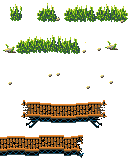
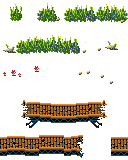
shrooms

diff --git a/lib/game/levels/e1m1.js b/lib/game/levels/e1m1.js
@@ -1,6 +1,6 @@
 ig.module( 'game.levels.e1m1' )
 .requires( 'impact.image','game.entities.nextlevel' )
 .defines(function(){
-LevelE1m1=/*JSON[*/{"entities":[{"type":"EntityNextlevel","x":1531,"y":70}],"layer":[{"name":"BG","width":1,"height":1,"linkWithCollision":false,"visible":1,"tilesetName":"media/gfx/levels/sky.png","repeat":true,"preRender":true,"distance":"1","tilesize":32,"foreground":false,"data":[[15]]},{"name":"skybox","width":12,"height":14,"linkWithCollision":false,"visible":1,"tilesetName":"media/gfx/levels/sky.png","repeat":true,"preRender":true,"distance":"1.8","tilesize":32,"foreground":false,"data":[[1,1,1,1,1,1,1,1,1,1,1,1],[5,6,5,5,6,6,5,5,5,6,6,6],[0,0,0,0,0,0,0,0,0,0,0,0],[0,0,0,0,0,0,0,0,0,0,0,0],[0,0,0,0,0,0,0,0,0,0,0,0],[9,10,9,10,9,9,10,9,10,9,9,10],[13,13,13,13,13,13,13,13,13,13,13,13],[13,13,13,13,13,13,13,13,13,13,13,13],[13,13,13,13,13,13,13,13,13,13,13,13],[13,13,13,13,13,13,13,13,13,13,13,13],[1,1,1,1,1,1,1,1,1,1,1,1],[1,1,1,1,1,1,1,1,1,1,1,1],[1,1,1,1,1,1,1,1,1,1,1,1],[1,1,1,1,1,1,1,1,1,1,1,1]]},{"name":"forest_far_away","width":45,"height":10,"linkWithCollision":false,"visible":1,"tilesetName":"media/gfx/levels/forest.png","repeat":false,"preRender":true,"distance":"1.4","tilesize":32,"foreground":false,"data":[[0,0,0,0,0,0,0,0,0,0,0,0,0,0,0,0,0,0,0,0,0,0,0,0,0,0,0,0,0,0,0,0,0,0,0,0,0,0,0,0,0,0,0,0,0],[0,0,0,0,0,0,0,0,0,0,0,0,0,0,0,0,0,0,0,0,0,0,0,0,0,0,0,0,0,0,0,0,0,0,0,0,0,0,0,0,0,0,0,0,0],[0,0,0,0,0,0,0,0,0,0,0,0,0,0,0,0,0,0,0,0,0,0,0,11,0,11,0,5,0,0,0,0,0,0,0,0,0,0,0,0,0,0,0,0,0],[0,5,0,0,0,0,0,0,0,0,0,0,0,0,0,0,0,3,0,0,0,3,0,9,0,14,0,15,0,0,0,0,0,0,0,0,0,0,0,0,0,0,11,0,0],[0,9,0,0,5,0,10,0,11,0,0,3,0,0,0,2,0,7,4,0,0,7,0,16,0,9,0,9,0,0,11,0,0,0,0,0,0,0,3,0,10,0,15,0,0],[0,13,0,0,14,0,15,0,14,0,0,7,0,0,0,6,0,7,8,0,0,7,0,14,0,13,0,14,0,0,9,0,10,0,0,0,5,0,7,0,13,0,13,0,0],[0,9,0,0,9,0,16,0,15,0,0,7,0,0,0,6,0,7,8,0,0,7,0,13,0,9,0,13,0,0,15,0,9,0,0,0,15,0,7,0,15,0,14,0,0],[0,13,0,0,13,0,16,0,9,0,0,7,0,0,0,6,0,7,8,0,0,7,0,16,0,16,0,9,0,0,16,0,9,0,0,0,9,0,7,0,9,0,15,0,0],[0,16,0,0,16,0,0,0,0,0,0,7,0,0,0,6,0,7,8,0,0,7,0,16,0,16,0,16,0,0,16,0,16,0,0,0,16,0,7,0,16,0,9,0,0],[0,0,0,0,0,0,0,0,0,0,0,0,0,0,0,0,0,0,0,0,0,0,0,0,0,0,0,0,0,0,0,0,0,0,0,0,16,0,7,0,16,0,15,0,0]]},{"name":"forest_back","width":55,"height":10,"linkWithCollision":false,"visible":1,"tilesetName":"media/gfx/levels/forest.png","repeat":false,"preRender":true,"distance":"1.1","tilesize":32,"foreground":false,"data":[[0,0,0,0,0,0,0,0,0,0,0,0,0,0,0,0,0,0,0,0,0,0,0,0,0,0,0,0,0,0,0,0,0,0,0,0,0,0,0,0,0,0,0,0,0,0,0,0,0,0,0,0,0,0,0],[0,0,0,0,0,0,0,0,0,0,0,0,0,0,0,0,0,0,0,10,0,5,0,0,0,0,4,0,0,0,0,0,0,0,0,0,0,0,0,0,0,0,0,0,0,0,0,0,0,0,0,0,0,0,0],[0,0,0,0,0,0,0,0,0,0,0,0,0,0,11,0,0,0,0,9,0,16,0,10,0,3,8,0,0,0,0,0,0,0,0,0,0,0,0,0,0,0,0,0,0,0,0,0,10,0,0,0,0,0,0],[0,0,11,0,0,0,0,4,0,3,0,0,0,0,14,0,0,0,0,13,0,13,0,14,0,7,8,0,0,0,10,0,11,0,0,0,5,0,0,0,0,0,0,2,0,0,0,0,15,0,0,0,0,0,0],[0,0,9,0,0,0,0,8,0,7,0,0,0,0,15,0,0,0,0,14,0,16,0,13,0,7,8,0,0,0,15,0,14,0,0,0,9,2,10,0,0,0,0,6,0,0,0,0,13,0,0,0,0,0,0],[0,0,9,0,0,1,0,8,0,7,0,0,0,0,9,0,0,0,0,15,0,16,0,13,0,7,8,0,0,0,16,0,13,0,0,0,13,6,14,0,0,0,0,6,0,0,0,0,9,0,0,0,0,0,0],[0,0,13,0,0,8,0,8,0,7,0,0,0,0,13,0,0,0,0,16,0,16,0,0,0,7,8,0,0,0,16,0,16,0,0,0,14,6,15,0,0,0,0,6,0,0,0,0,16,0,0,0,0,0,0],[0,0,13,0,0,8,0,8,0,7,0,0,0,0,16,0,0,0,0,16,0,16,0,0,0,7,8,0,0,0,16,0,16,0,0,0,15,6,16,0,0,0,0,6,0,0,0,0,16,0,0,0,0,0,0],[0,0,0,0,0,0,0,0,0,0,0,0,0,0,16,0,0,0,0,0,0,0,0,0,0,7,8,0,0,0,0,0,0,0,0,0,16,6,16,0,0,0,0,6,0,0,0,0,16,0,0,0,0,0,0],[0,0,0,0,0,0,0,0,0,0,0,0,0,0,16,0,0,0,0,0,0,0,0,0,0,0,8,0,0,0,0,0,0,0,0,0,16,6,16,0,0,0,0,6,0,0,0,0,16,0,0,16,0,0,0]]},{"name":"MAIN_back","width":45,"height":10,"linkWithCollision":false,"visible":1,"tilesetName":"media/gfx/levels/forest.png","repeat":false,"preRender":true,"distance":"1","tilesize":32,"foreground":false,"data":[[0,0,0,0,0,0,0,0,0,0,0,0,0,0,0,0,0,0,0,0,0,0,0,0,0,0,0,0,0,0,0,0,0,0,0,0,0,0,0,0,0,0,0,0,0],[0,0,0,0,0,0,0,0,0,0,0,0,0,0,0,0,0,0,0,0,0,0,0,0,0,0,0,0,0,0,0,0,0,0,0,0,0,0,0,0,0,0,0,0,0],[0,0,0,0,0,0,0,0,0,0,0,0,0,0,0,0,0,0,0,0,0,0,0,0,0,0,0,0,0,0,0,0,0,0,0,0,0,0,0,0,0,0,0,0,0],[0,0,0,0,0,0,0,0,0,0,0,0,0,0,0,0,0,0,0,0,17,19,18,19,20,0,17,20,0,0,0,0,0,0,0,0,0,0,0,0,0,0,0,0,0],[0,0,0,0,0,0,0,0,0,17,20,0,0,0,0,0,17,18,19,0,21,22,23,22,24,0,21,24,0,0,0,0,0,0,0,0,0,0,0,0,0,0,0,0,0],[0,0,0,0,0,0,17,18,19,21,24,20,0,0,0,0,21,22,23,0,0,0,0,0,0,0,0,0,0,0,0,0,0,0,0,0,0,0,0,0,0,0,0,0,0],[0,0,0,0,0,0,21,22,22,0,0,24,0,0,0,0,0,0,0,0,0,0,0,0,0,0,0,0,0,0,0,0,0,0,0,0,0,0,0,0,0,0,0,0,0],[0,0,0,0,0,0,0,0,0,0,0,0,0,0,0,0,0,0,0,0,0,0,0,0,0,0,0,0,0,0,0,0,0,0,0,0,0,0,0,0,0,0,0,0,0],[0,0,0,0,0,0,0,0,0,0,0,0,0,0,0,0,0,0,0,0,0,0,0,0,0,0,0,0,0,0,0,0,0,0,0,0,0,0,0,0,0,0,0,0,0],[0,0,0,0,0,0,0,0,0,0,0,0,0,0,0,0,0,0,0,0,0,0,0,0,0,0,0,0,0,0,0,0,0,0,0,0,0,0,0,0,0,0,0,0,0]]},{"name":"MAIN","width":50,"height":10,"linkWithCollision":false,"visible":1,"tilesetName":"media/gfx/levels/ground.png","repeat":false,"preRender":true,"distance":"1","tilesize":32,"foreground":false,"data":[[0,0,0,0,0,0,0,0,0,0,0,0,0,0,0,0,0,0,0,0,0,0,0,0,0,0,0,0,0,0,0,0,0,0,0,0,0,0,0,0,0,0,0,0,0,0,0,0,0,0],[0,0,0,0,0,0,0,0,0,0,0,0,0,0,0,0,0,0,0,0,0,0,0,0,0,0,0,0,0,0,0,0,0,0,0,0,0,0,0,0,0,0,0,0,0,0,0,0,0,0],[0,0,0,0,0,0,0,0,0,0,0,0,0,0,0,0,0,0,0,0,0,0,0,0,0,0,0,0,0,0,0,0,0,0,0,0,0,0,0,0,0,0,0,0,0,0,0,0,0,0],[0,0,0,0,0,0,0,0,0,0,0,0,0,0,0,0,0,0,0,0,0,0,0,0,0,0,0,0,0,0,0,0,0,0,0,0,0,0,0,0,0,0,0,0,0,0,0,3,1,4],[0,0,0,0,0,0,0,0,0,0,0,0,0,0,0,0,0,0,0,13,10,11,10,10,11,11,10,11,14,0,0,0,0,0,0,0,0,0,0,0,0,0,0,0,0,0,3,7,5,8],[0,0,0,0,0,0,0,0,0,13,14,0,0,0,0,13,10,11,10,5,5,5,5,5,5,5,5,5,8,0,0,13,10,11,12,1,4,0,0,0,0,0,0,0,3,2,7,5,5,8],[3,2,2,9,10,11,11,10,11,7,8,14,0,13,10,5,5,5,5,5,5,5,5,5,5,5,5,5,8,0,0,7,5,5,5,5,8,0,0,0,0,0,0,0,7,5,5,5,5,8],[7,5,5,5,5,5,5,5,5,5,5,8,0,7,5,5,5,5,5,5,5,5,5,5,5,5,5,5,8,0,0,7,5,5,5,5,8,0,0,0,0,0,0,0,7,5,5,5,5,8],[7,5,5,5,5,5,5,5,5,5,5,8,0,7,5,5,5,5,5,5,5,5,5,5,5,5,5,5,8,0,0,7,5,5,5,5,8,0,0,0,0,0,0,0,7,5,5,5,5,8],[7,5,5,5,5,5,5,5,5,5,5,8,0,7,5,5,5,5,5,5,5,5,5,5,5,5,5,5,8,0,0,7,5,5,5,5,8,0,0,0,0,0,0,0,7,5,5,5,5,8]]},{"name":"MAIN_front_behind","width":52,"height":10,"linkWithCollision":false,"visible":1,"tilesetName":"media/gfx/levels/grass.png","repeat":false,"preRender":true,"distance":"1","tilesize":32,"foreground":false,"data":[[0,0,0,0,0,0,0,0,0,0,0,0,0,0,0,0,0,0,0,0,0,0,0,0,0,0,0,0,0,0,0,0,0,0,0,0,0,0,0,0,0,0,0,0,0,0,0,0,0,0,0,0],[0,0,0,0,0,0,0,0,0,0,0,0,0,0,0,0,0,0,0,0,0,0,0,0,0,0,0,0,0,0,0,0,0,0,0,0,0,0,0,0,0,0,0,0,0,0,0,0,0,0,0,0],[0,0,0,0,0,0,0,0,0,0,0,0,0,0,0,0,0,0,0,0,0,0,0,0,0,0,0,0,0,0,0,0,0,0,0,0,0,0,0,0,0,0,0,0,0,0,0,0,0,0,0,0],[0,0,0,0,0,0,0,0,0,0,0,0,0,0,0,0,0,0,0,0,0,0,0,0,0,0,0,0,0,0,0,0,0,0,0,0,0,0,0,0,0,0,0,0,0,0,0,0,0,13,14,19],[0,0,0,0,0,0,0,0,0,0,0,0,0,0,0,0,0,0,0,0,0,0,0,0,0,0,0,0,0,0,0,0,0,0,0,0,0,0,0,0,0,0,0,0,0,0,0,0,0,0,0,0],[0,0,0,0,0,0,0,0,0,0,0,0,0,0,0,0,0,0,0,0,0,0,0,0,0,0,0,0,0,0,0,0,0,0,0,10,13,14,15,15,14,15,14,15,16,12,0,0,0,0,0,0],[8,0,12,0,0,0,0,0,0,0,0,0,0,0,0,0,0,0,0,0,0,0,0,0,0,0,0,0,0,0,0,0,0,0,0,0,0,0,0,0,0,0,0,0,0,0,0,0,0,0,0,0],[0,0,0,0,0,0,0,0,0,0,0,0,0,0,0,0,0,0,0,0,0,0,0,0,0,0,0,0,0,0,0,0,0,0,0,0,0,0,0,0,0,0,0,0,0,0,0,0,0,0,0,0],[0,0,0,0,0,0,0,0,0,0,0,0,0,0,0,0,0,0,0,0,0,0,0,0,0,0,0,0,0,0,0,0,0,0,0,0,0,0,0,0,0,0,0,0,0,0,0,0,0,0,0,0],[0,0,0,0,0,0,0,0,0,0,0,0,0,0,0,0,0,0,0,0,0,0,0,0,0,0,0,0,0,0,0,0,0,0,0,0,0,0,0,0,0,0,0,0,0,0,0,0,0,0,0,0]]},{"name":"MAIN_front_above","width":45,"height":10,"linkWithCollision":false,"visible":1,"tilesetName":"media/gfx/levels/grass.png","repeat":false,"preRender":true,"distance":"1","tilesize":32,"foreground":true,"data":[[0,0,0,0,0,0,0,0,0,0,0,0,0,0,0,0,0,0,0,0,0,0,0,0,0,0,0,0,0,0,0,0,0,0,0,0,0,0,0,0,0,0,0,0,0],[0,0,0,0,0,0,0,0,0,0,0,0,0,0,0,0,0,0,0,0,0,0,0,0,0,0,0,0,0,0,0,0,0,0,0,0,0,0,0,0,0,0,0,0,0],[0,0,0,0,0,0,0,0,0,0,0,0,0,0,0,0,0,0,0,0,0,0,0,0,0,0,0,0,0,0,0,0,0,0,0,0,0,0,0,0,0,0,0,0,0],[0,0,0,0,0,0,0,0,0,0,0,0,0,0,0,0,0,0,0,0,0,0,0,0,0,0,0,0,0,0,0,0,0,0,0,0,0,0,0,0,0,0,0,0,0],[0,0,0,0,0,0,0,0,0,0,0,0,0,0,0,0,0,0,0,5,6,7,3,0,1,8,0,4,0,0,0,0,0,0,0,0,0,0,0,0,0,0,0,0,0],[0,0,0,0,0,0,0,0,0,0,2,0,0,0,0,0,5,6,6,0,0,0,0,0,0,0,0,0,0,0,0,0,2,0,0,0,0,0,0,0,0,0,0,0,0],[0,0,0,0,0,5,6,6,7,0,0,0,0,1,0,0,0,0,0,0,0,0,0,0,0,0,0,0,0,0,0,0,0,0,0,0,0,0,0,0,0,0,0,0,0],[0,0,0,0,0,0,0,0,0,0,0,0,0,0,0,0,0,0,0,0,0,0,0,0,0,0,0,0,0,0,0,0,0,0,0,0,0,0,0,0,0,0,0,0,0],[0,0,0,0,0,0,0,0,0,0,0,0,0,0,0,0,0,0,0,0,0,0,0,0,0,0,0,0,0,0,0,0,0,0,0,0,0,0,0,0,0,0,0,0,0],[0,0,0,0,0,0,0,0,0,0,0,0,0,0,0,0,0,0,0,0,0,0,0,0,0,0,0,0,0,0,0,0,0,0,0,0,0,0,0,0,0,0,0,0,0]]},{"name":"forest_front","width":80,"height":10,"linkWithCollision":false,"visible":1,"tilesetName":"media/gfx/levels/forest.png","repeat":false,"preRender":true,"distance":"0.7","tilesize":32,"foreground":true,"data":[[0,0,0,0,0,0,0,0,0,0,0,0,0,0,0,0,0,0,0,0,0,0,0,0,0,0,0,0,0,0,0,0,0,0,0,0,0,0,0,0,0,0,0,0,0,0,0,0,0,0,0,0,0,0,0,0,0,0,0,0,0,0,0,0,0,0,0,0,0,0,0,0,0,0,0,0,0,0,0,0],[0,0,0,0,0,0,0,0,0,0,0,0,0,0,0,0,0,0,0,0,0,0,0,0,0,0,0,0,0,0,0,0,0,0,0,0,0,0,0,0,0,0,0,0,0,0,0,0,0,0,0,0,0,0,0,0,0,0,0,0,0,0,0,0,0,0,0,0,0,0,0,0,0,0,0,0,0,0,0,0],[0,0,0,0,0,0,0,0,0,0,0,0,0,0,0,0,0,0,10,0,0,0,0,0,0,0,0,0,0,0,0,11,0,0,0,0,0,0,0,0,0,0,0,0,0,0,0,0,0,0,0,0,0,0,0,0,0,0,0,0,0,0,0,0,0,5,0,0,0,0,11,0,0,0,0,2,0,0,0,0],[0,0,0,0,0,0,0,0,0,0,0,0,0,0,0,0,0,11,9,0,0,0,0,0,0,0,0,0,0,0,0,13,0,0,0,0,0,0,0,0,0,0,0,0,0,0,0,0,0,0,0,0,0,0,0,0,0,0,0,0,0,0,0,0,0,9,0,0,0,0,9,0,0,4,0,6,0,0,0,0],[3,0,0,0,0,10,0,0,0,5,0,0,0,0,0,0,0,13,13,0,0,0,0,0,11,0,0,0,0,0,0,13,0,0,0,0,0,0,0,0,0,0,0,0,0,11,0,0,0,3,0,0,0,0,0,0,0,0,10,0,0,0,0,0,0,13,10,0,0,0,15,0,0,8,1,6,0,0,0,0],[7,0,4,0,0,14,0,0,0,9,0,0,0,0,0,0,0,13,9,0,0,10,0,0,15,0,2,0,0,0,0,13,0,0,0,0,0,0,0,0,0,0,0,0,0,14,0,4,0,7,3,0,0,0,0,0,0,0,14,11,0,0,0,0,0,14,14,0,0,0,14,0,0,8,8,6,0,0,0,0],[7,0,8,0,0,15,0,0,0,14,0,0,0,0,0,0,0,14,15,0,0,13,0,0,9,0,6,0,0,0,0,9,0,0,0,0,0,0,0,0,0,0,0,0,0,13,0,8,0,7,7,0,0,0,0,0,0,0,15,9,0,0,0,0,0,15,15,0,0,0,13,0,0,8,8,6,0,0,0,0],[7,0,8,0,0,9,0,0,0,13,0,0,0,0,0,0,0,16,16,0,0,13,0,0,14,0,6,0,0,0,0,14,0,0,0,0,0,0,0,0,0,0,0,0,0,9,0,8,0,7,7,0,0,0,0,0,0,0,13,15,0,0,0,0,0,16,13,0,0,0,16,0,0,8,8,6,0,0,0,0],[7,0,8,0,0,13,0,0,0,15,0,0,0,0,0,0,0,16,16,0,0,15,0,0,16,0,6,0,0,0,0,16,0,0,0,0,0,0,0,0,0,0,0,0,0,16,0,8,0,7,7,0,0,0,0,0,0,0,16,14,0,0,0,0,0,16,15,0,0,0,16,0,0,8,8,6,0,0,0,0],[7,0,8,0,0,16,0,0,0,9,0,0,0,0,0,0,0,16,16,0,0,16,0,0,16,0,6,0,0,0,0,16,0,0,0,0,0,0,0,0,0,0,0,0,0,16,0,8,0,7,7,0,0,0,0,0,0,0,16,9,0,0,0,0,0,16,16,0,0,0,16,0,0,8,8,6,0,0,0,0]]},{"name":"collision","width":105,"height":16,"linkWithCollision":false,"visible":0,"tilesetName":"","repeat":false,"preRender":false,"distance":1,"tilesize":16,"foreground":true,"data":[[0,0,0,0,0,0,0,0,0,0,0,0,0,0,0,0,0,0,0,0,0,0,0,0,0,0,0,0,0,0,0,0,0,0,0,0,0,0,0,0,0,0,0,0,0,0,0,0,0,0,0,0,0,0,0,0,0,0,0,0,0,0,0,0,0,0,0,0,0,0,0,0,0,0,0,0,0,0,0,0,0,0,0,0,0,0,0,0,0,0,0,0,0,0,0,0,0,0,0,0,0,0,0,0,0],[0,0,0,0,0,0,0,0,0,0,0,0,0,0,0,0,0,0,0,0,0,0,0,0,0,0,0,0,0,0,0,0,0,0,0,0,0,0,0,0,0,0,0,0,0,0,0,0,0,0,0,0,0,0,0,0,0,0,0,0,0,0,0,0,0,0,0,0,0,0,0,0,0,0,0,0,0,0,0,0,0,0,0,0,0,0,0,0,0,0,0,0,0,0,0,0,0,0,0,0,0,0,0,0,0],[0,0,0,0,0,0,0,0,0,0,0,0,0,0,0,0,0,0,0,0,0,0,0,0,0,0,0,0,0,0,0,0,0,0,0,0,0,0,0,0,0,0,0,0,0,0,0,0,0,0,0,0,0,0,0,0,0,0,0,0,0,0,0,0,0,0,0,0,0,0,0,0,0,0,0,0,0,0,0,0,0,0,0,0,0,0,0,0,0,0,0,0,0,0,0,0,0,0,0,0,0,0,0,0,0],[0,0,0,0,0,0,0,0,0,0,0,0,0,0,0,0,0,0,0,0,0,0,0,0,0,0,0,0,0,0,0,0,0,0,0,0,0,0,0,0,0,0,0,0,0,0,0,0,0,0,0,0,0,0,0,0,0,0,0,0,0,0,0,0,0,0,0,0,0,0,0,0,0,0,0,0,0,0,0,0,0,0,0,0,0,0,0,0,0,0,0,0,0,0,0,0,0,0,0,0,0,0,0,0,0],[0,0,0,0,0,0,0,0,0,0,0,0,0,0,0,0,0,0,0,0,0,0,0,0,0,0,0,0,0,0,0,0,0,0,0,0,0,0,0,0,0,0,0,0,0,0,0,0,0,0,0,0,0,0,0,0,0,0,0,0,0,0,0,0,0,0,0,0,0,0,0,0,0,0,0,0,0,0,0,0,0,0,0,0,0,0,0,0,0,0,0,0,0,0,0,0,0,0,0,0,0,0,0,0,0],[0,0,0,0,0,0,0,0,0,0,0,0,0,0,0,0,0,0,0,0,0,0,0,0,0,0,0,0,0,0,0,0,0,0,0,0,0,0,0,0,0,0,0,0,0,0,0,0,0,0,0,0,0,0,0,0,0,0,0,0,0,0,0,0,0,0,0,0,0,0,0,0,0,0,0,0,0,0,0,0,0,0,0,0,0,0,0,0,0,0,0,0,0,0,0,0,0,0,0,0,0,0,0,0,0],[0,0,0,0,0,0,0,0,0,0,0,0,0,0,0,0,0,0,0,0,0,0,0,0,0,0,0,0,0,0,0,0,0,0,0,0,0,0,0,0,0,0,0,0,0,0,0,0,0,0,0,0,0,0,0,0,0,0,0,0,0,0,0,0,0,0,0,0,0,0,0,0,0,0,0,0,0,0,0,0,0,0,0,0,0,0,0,0,0,0,0,0,0,0,0,0,0,0,0,0,0,0,0,0,0],[0,0,0,0,0,0,0,0,0,0,0,0,0,0,0,0,0,0,0,0,0,0,0,0,0,0,0,0,0,0,0,0,0,0,0,0,0,0,0,0,0,0,0,0,0,0,0,0,0,0,0,0,0,0,0,0,0,0,0,0,0,0,0,0,0,0,0,0,0,0,0,0,0,0,0,0,0,0,0,0,0,0,0,0,0,0,0,0,0,0,0,0,0,0,1,1,1,1,1,1,1,1,1,0,0],[0,0,0,0,0,0,0,0,0,0,0,0,0,0,0,0,0,0,0,0,0,0,0,0,0,0,0,0,0,0,0,0,0,0,0,0,0,0,0,0,0,0,0,0,0,0,0,0,0,0,0,0,0,0,0,0,0,0,0,0,0,0,0,0,0,0,0,0,0,0,0,0,0,0,0,0,0,0,0,0,0,0,0,0,0,0,0,0,0,0,0,0,0,0,1,0,0,0,0,1,0,0,0,0,0],[0,0,0,0,0,0,0,0,0,0,0,0,0,0,0,0,0,0,0,0,0,0,0,0,0,0,0,0,0,0,0,0,0,0,0,0,0,0,1,1,1,1,1,1,1,1,1,1,1,1,1,1,1,1,1,1,1,1,0,0,0,0,0,0,0,0,0,0,0,0,0,0,0,0,0,0,0,0,0,0,0,0,0,0,0,0,0,0,0,0,0,0,1,1,1,0,0,0,0,1,0,0,0,0,0],[0,0,0,0,0,0,0,0,0,0,0,0,0,0,0,0,0,0,0,0,0,0,0,0,0,0,0,0,0,0,0,0,0,0,0,0,0,0,1,0,0,0,0,0,0,0,0,0,0,0,0,0,0,0,0,0,0,1,0,0,0,0,0,0,0,0,0,0,0,0,0,0,0,0,0,0,0,0,0,0,0,0,0,0,0,0,0,0,0,0,0,0,1,0,0,0,0,0,0,1,0,0,0,0,0],[0,0,0,0,0,0,0,0,0,0,0,0,0,0,0,0,0,0,1,1,1,1,0,0,0,0,0,0,0,0,1,1,1,1,1,1,1,1,1,0,0,0,0,0,0,0,0,0,0,0,0,0,0,0,0,0,0,1,0,0,0,0,1,1,1,1,1,1,1,1,1,1,1,1,1,1,1,1,1,1,1,1,1,1,1,1,1,1,1,1,1,1,1,0,0,0,0,0,0,1,0,0,0,0,0],[0,0,0,0,0,0,0,0,0,0,0,0,0,0,0,0,0,0,1,1,1,1,0,0,0,0,0,0,0,0,1,0,0,0,0,0,0,0,0,0,0,0,0,0,0,0,0,0,0,0,0,0,0,0,0,0,0,1,0,0,0,0,1,0,0,0,0,0,0,0,0,0,0,1,0,0,0,0,0,0,0,0,0,0,0,0,0,0,1,0,0,0,0,0,0,0,0,0,0,1,0,0,0,0,0],[1,1,1,1,1,1,1,1,1,1,1,1,1,1,1,1,1,1,1,0,0,1,1,1,0,0,1,1,1,1,1,0,0,0,0,0,0,0,0,0,0,0,0,0,0,0,0,0,0,0,0,0,0,0,0,0,0,1,0,0,0,0,1,0,0,0,0,0,0,0,0,0,0,1,0,0,0,0,0,0,0,0,0,0,0,0,0,0,1,0,0,0,0,0,0,0,0,0,0,1,0,0,0,0,0],[1,0,0,0,0,0,0,0,0,0,0,0,0,0,0,0,0,0,0,0,0,0,0,1,0,0,1,0,0,0,0,0,0,0,0,0,0,0,0,0,0,0,0,0,0,0,0,0,0,0,0,0,0,0,0,0,0,1,0,0,0,0,1,0,0,0,0,0,0,0,0,0,0,1,0,0,0,0,0,0,0,0,0,0,0,0,0,0,1,0,0,0,0,0,0,0,0,0,0,1,0,0,0,0,0],[1,0,0,0,0,0,0,0,0,0,0,0,0,0,0,0,0,0,0,0,0,0,0,1,0,0,1,0,0,0,0,0,0,0,0,0,0,0,0,0,0,0,0,0,0,0,0,0,0,0,0,0,0,0,0,0,0,1,0,0,0,0,1,0,0,0,0,0,0,0,0,0,0,1,0,0,0,0,0,0,0,0,0,0,0,0,0,0,1,0,0,0,0,0,0,0,0,0,0,1,0,0,0,0,0]]}]}/*]JSON*/;
+LevelE1m1=/*JSON[*/{"entities":[{"type":"EntityNextlevel","x":1531,"y":70}],"layer":[{"name":"BG","width":1,"height":1,"linkWithCollision":false,"visible":1,"tilesetName":"media/gfx/levels/sky.png","repeat":true,"preRender":true,"distance":"1","tilesize":32,"foreground":false,"data":[[15]]},{"name":"skybox","width":12,"height":14,"linkWithCollision":false,"visible":1,"tilesetName":"media/gfx/levels/sky.png","repeat":true,"preRender":true,"distance":"1.8","tilesize":32,"foreground":false,"data":[[1,1,1,1,1,1,1,1,1,1,1,1],[5,6,5,5,6,6,5,5,5,6,6,6],[0,0,0,0,0,0,0,0,0,0,0,0],[0,0,0,0,0,0,0,0,0,0,0,0],[0,0,0,0,0,0,0,0,0,0,0,0],[9,10,9,10,9,9,10,9,10,9,9,10],[13,13,13,13,13,13,13,13,13,13,13,13],[13,13,13,13,13,13,13,13,13,13,13,13],[13,13,13,13,13,13,13,13,13,13,13,13],[13,13,13,13,13,13,13,13,13,13,13,13],[1,1,1,1,1,1,1,1,1,1,1,1],[1,1,1,1,1,1,1,1,1,1,1,1],[1,1,1,1,1,1,1,1,1,1,1,1],[1,1,1,1,1,1,1,1,1,1,1,1]]},{"name":"forest_far_away","width":45,"height":10,"linkWithCollision":false,"visible":1,"tilesetName":"media/gfx/levels/forest.png","repeat":false,"preRender":true,"distance":"1.4","tilesize":32,"foreground":false,"data":[[0,0,0,0,0,0,0,0,0,0,0,0,0,0,0,0,0,0,0,0,0,0,0,0,0,0,0,0,0,0,0,0,0,0,0,0,0,0,0,0,0,0,0,0,0],[0,0,0,0,0,0,0,0,0,0,0,0,0,0,0,0,0,0,0,0,0,0,0,0,0,0,0,0,0,0,0,0,0,0,0,0,0,0,0,0,0,0,0,0,0],[0,0,0,0,0,0,0,0,0,0,0,0,0,0,0,0,0,0,0,0,0,0,0,11,0,11,0,5,0,0,0,0,0,0,0,0,0,0,0,0,0,0,0,0,0],[0,5,0,0,0,0,0,0,0,0,0,0,0,0,0,0,0,3,0,0,0,3,0,9,0,14,0,15,0,0,0,0,0,0,0,0,0,0,0,0,0,0,11,0,0],[0,9,0,0,5,0,10,0,11,0,0,3,0,0,0,2,0,7,4,0,0,7,0,16,0,9,0,9,0,0,11,0,0,0,0,0,0,0,3,0,10,0,15,0,0],[0,13,0,0,14,0,15,0,14,0,0,7,0,0,0,6,0,7,8,0,0,7,0,14,0,13,0,14,0,0,9,0,10,0,0,0,5,0,7,0,13,0,13,0,0],[0,9,0,0,9,0,16,0,15,0,0,7,0,0,0,6,0,7,8,0,0,7,0,13,0,9,0,13,0,0,15,0,9,0,0,0,15,0,7,0,15,0,14,0,0],[0,13,0,0,13,0,16,0,9,0,0,7,0,0,0,6,0,7,8,0,0,7,0,16,0,16,0,9,0,0,16,0,9,0,0,0,9,0,7,0,9,0,15,0,0],[0,16,0,0,16,0,0,0,0,0,0,7,0,0,0,6,0,7,8,0,0,7,0,16,0,16,0,16,0,0,16,0,16,0,0,0,16,0,7,0,16,0,9,0,0],[0,0,0,0,0,0,0,0,0,0,0,0,0,0,0,0,0,0,0,0,0,0,0,0,0,0,0,0,0,0,0,0,0,0,0,0,16,0,7,0,16,0,15,0,0]]},{"name":"forest_back","width":55,"height":10,"linkWithCollision":false,"visible":1,"tilesetName":"media/gfx/levels/forest.png","repeat":false,"preRender":true,"distance":"1.1","tilesize":32,"foreground":false,"data":[[0,0,0,0,0,0,0,0,0,0,0,0,0,0,0,0,0,0,0,0,0,0,0,0,0,0,0,0,0,0,0,0,0,0,0,0,0,0,0,0,0,0,0,0,0,0,0,0,0,0,0,0,0,0,0],[0,0,0,0,0,0,0,0,0,0,0,0,0,0,0,0,0,0,0,10,0,5,0,0,0,0,4,0,0,0,0,0,0,0,0,0,0,0,0,0,0,0,0,0,0,0,0,0,0,0,0,0,0,0,0],[0,0,0,0,0,0,0,0,0,0,0,0,0,0,11,0,0,0,0,9,0,16,0,10,0,3,8,0,0,0,0,0,0,0,0,0,0,0,0,0,0,0,0,0,0,0,0,0,10,0,0,0,0,0,0],[0,0,11,0,0,0,0,4,0,3,0,0,0,0,14,0,0,0,0,13,0,13,0,14,0,7,8,0,0,0,10,0,11,0,0,0,5,0,0,0,0,0,0,2,0,0,0,0,15,0,0,0,0,0,0],[0,0,9,0,0,0,0,8,0,7,0,0,0,0,15,0,0,0,0,14,0,16,0,13,0,7,8,0,0,0,15,0,14,0,0,0,9,2,10,0,0,0,0,6,0,0,0,0,13,0,0,0,0,0,0],[0,0,9,0,0,1,0,8,0,7,0,0,0,0,9,0,0,0,0,15,0,16,0,13,0,7,8,0,0,0,16,0,13,0,0,0,13,6,14,0,0,0,0,6,0,0,0,0,9,0,0,0,0,0,0],[0,0,13,0,0,8,0,8,0,7,0,0,0,0,13,0,0,0,0,16,0,16,0,0,0,7,8,0,0,0,16,0,16,0,0,0,14,6,15,0,0,0,0,6,0,0,0,0,16,0,0,0,0,0,0],[0,0,13,0,0,8,0,8,0,7,0,0,0,0,16,0,0,0,0,16,0,16,0,0,0,7,8,0,0,0,16,0,16,0,0,0,15,6,16,0,0,0,0,6,0,0,0,0,16,0,0,0,0,0,0],[0,0,0,0,0,0,0,0,0,0,0,0,0,0,16,0,0,0,0,0,0,0,0,0,0,7,8,0,0,0,0,0,0,0,0,0,16,6,16,0,0,0,0,6,0,0,0,0,16,0,0,0,0,0,0],[0,0,0,0,0,0,0,0,0,0,0,0,0,0,16,0,0,0,0,0,0,0,0,0,0,0,8,0,0,0,0,0,0,0,0,0,16,6,16,0,0,0,0,6,0,0,0,0,16,0,0,16,0,0,0]]},{"name":"MAIN_back","width":45,"height":10,"linkWithCollision":false,"visible":1,"tilesetName":"media/gfx/levels/forest.png","repeat":false,"preRender":true,"distance":"1","tilesize":32,"foreground":false,"data":[[0,0,0,0,0,0,0,0,0,0,0,0,0,0,0,0,0,0,0,0,0,0,0,0,0,0,0,0,0,0,0,0,0,0,0,0,0,0,0,0,0,0,0,0,0],[0,0,0,0,0,0,0,0,0,0,0,0,0,0,0,0,0,0,0,0,0,0,0,0,0,0,0,0,0,0,0,0,0,0,0,0,0,0,0,0,0,0,0,0,0],[0,0,0,0,0,0,0,0,0,0,0,0,0,0,0,0,0,0,0,0,0,0,0,0,0,0,0,0,0,0,0,0,0,0,0,0,0,0,0,0,0,0,0,0,0],[0,0,0,0,0,0,0,0,0,0,0,0,0,0,0,0,0,0,0,0,17,19,18,19,20,0,17,20,0,0,0,0,0,0,0,0,0,0,0,0,0,0,0,0,0],[0,0,0,0,0,0,0,0,0,17,20,0,0,0,0,0,17,18,19,0,21,22,23,22,24,0,21,24,0,0,0,0,0,0,0,0,0,0,0,0,0,0,0,0,0],[0,0,0,0,0,0,17,18,19,21,24,20,0,0,0,0,21,22,23,0,0,0,0,0,0,0,0,0,0,0,0,0,0,0,0,0,0,0,0,0,0,0,0,0,0],[0,0,0,0,0,0,21,22,22,0,0,24,0,0,0,0,0,0,0,0,0,0,0,0,0,0,0,0,0,0,0,0,0,0,0,0,0,0,0,0,0,0,0,0,0],[0,0,0,0,0,0,0,0,0,0,0,0,0,0,0,0,0,0,0,0,0,0,0,0,0,0,0,0,0,0,0,0,0,0,0,0,0,0,0,0,0,0,0,0,0],[0,0,0,0,0,0,0,0,0,0,0,0,0,0,0,0,0,0,0,0,0,0,0,0,0,0,0,0,0,0,0,0,0,0,0,0,0,0,0,0,0,0,0,0,0],[0,0,0,0,0,0,0,0,0,0,0,0,0,0,0,0,0,0,0,0,0,0,0,0,0,0,0,0,0,0,0,0,0,0,0,0,0,0,0,0,0,0,0,0,0]]},{"name":"MAIN","width":50,"height":10,"linkWithCollision":false,"visible":1,"tilesetName":"media/gfx/levels/ground.png","repeat":false,"preRender":true,"distance":"1","tilesize":32,"foreground":false,"data":[[0,0,0,0,0,0,0,0,0,0,0,0,0,0,0,0,0,0,0,0,0,0,0,0,0,0,0,0,0,0,0,0,0,0,0,0,0,0,0,0,0,0,0,0,0,0,0,0,0,0],[0,0,0,0,0,0,0,0,0,0,0,0,0,0,0,0,0,0,0,0,0,0,0,0,0,0,0,0,0,0,0,0,0,0,0,0,0,0,0,0,0,0,0,0,0,0,0,0,0,0],[0,0,0,0,0,0,0,0,0,0,0,0,0,0,0,0,0,0,0,0,0,0,0,0,0,0,0,0,0,0,0,0,0,0,0,0,0,0,0,0,0,0,0,0,0,0,0,0,0,0],[0,0,0,0,0,0,0,0,0,0,0,0,0,0,0,0,0,0,0,0,0,0,0,0,0,0,0,0,0,0,0,0,0,0,0,0,0,0,0,0,0,0,0,0,0,0,0,3,1,4],[0,0,0,0,0,0,0,0,0,0,0,0,0,0,0,0,0,0,0,13,10,11,10,10,11,11,10,11,14,0,0,0,0,0,0,0,0,0,0,0,0,0,0,0,0,0,3,7,5,8],[0,0,0,0,0,0,0,0,0,13,14,0,0,0,0,13,10,11,10,5,5,5,5,5,5,5,5,5,8,0,0,13,10,11,12,1,4,0,0,0,0,0,0,0,3,2,7,5,5,8],[3,2,2,9,10,11,11,10,11,7,8,14,0,13,10,5,5,5,5,5,5,5,5,5,5,5,5,5,8,0,0,7,5,5,5,5,8,0,0,0,0,0,0,0,7,5,5,5,5,8],[7,5,5,5,5,5,5,5,5,5,5,8,0,7,5,5,5,5,5,5,5,5,5,5,5,5,5,5,8,0,0,7,5,5,5,5,8,0,0,0,0,0,0,0,7,5,5,5,5,8],[7,5,5,5,5,5,5,5,5,5,5,8,0,7,5,5,5,5,5,5,5,5,5,5,5,5,5,5,8,0,0,7,5,5,5,5,8,0,0,0,0,0,0,0,7,5,5,5,5,8],[7,5,5,5,5,5,5,5,5,5,5,8,0,7,5,5,5,5,5,5,5,5,5,5,5,5,5,5,8,0,0,7,5,5,5,5,8,0,0,0,0,0,0,0,7,5,5,5,5,8]]},{"name":"MAIN_front_behind","width":52,"height":10,"linkWithCollision":false,"visible":1,"tilesetName":"media/gfx/levels/grass.png","repeat":false,"preRender":true,"distance":"1","tilesize":32,"foreground":false,"data":[[0,0,0,0,0,0,0,0,0,0,0,0,0,0,0,0,0,0,0,0,0,0,0,0,0,0,0,0,0,0,0,0,0,0,0,0,0,0,0,0,0,0,0,0,0,0,0,0,0,0,0,0],[0,0,0,0,0,0,0,0,0,0,0,0,0,0,0,0,0,0,0,0,0,0,0,0,0,0,0,0,0,0,0,0,0,0,0,0,0,0,0,0,0,0,0,0,0,0,0,0,0,0,0,0],[0,0,0,0,0,0,0,0,0,0,0,0,0,0,0,0,0,0,0,0,0,0,0,0,0,0,0,0,0,0,0,0,0,0,0,0,0,0,0,0,0,0,0,0,0,0,0,0,0,0,0,0],[0,0,0,0,0,0,0,0,0,0,0,0,0,0,0,0,0,0,0,0,0,0,0,0,0,0,0,0,0,0,0,0,0,0,0,0,0,0,0,0,0,0,0,0,0,0,0,0,0,13,14,19],[0,0,0,0,0,0,0,0,0,0,0,0,0,0,0,0,0,0,0,0,0,9,0,0,0,0,0,0,0,0,0,0,0,0,0,0,0,0,0,0,0,0,0,0,0,0,0,0,0,0,0,0],[0,0,0,0,0,0,0,0,0,10,0,0,0,0,0,0,0,0,0,0,0,0,0,0,0,0,0,0,0,0,0,0,0,0,0,11,13,14,17,18,17,18,17,15,16,12,0,0,0,0,0,0],[0,0,12,0,9,0,0,0,0,0,0,0,0,0,9,0,0,0,0,0,0,0,0,0,0,0,0,0,0,0,0,0,0,0,0,0,0,0,0,0,0,0,0,0,0,0,0,0,0,0,0,0],[0,0,0,0,0,0,0,0,0,0,0,0,0,0,0,0,0,0,0,0,0,0,0,0,0,0,0,0,0,0,0,0,0,0,0,0,0,0,0,0,0,0,0,0,0,0,0,0,0,0,0,0],[0,0,0,0,0,0,0,0,0,0,0,0,0,0,0,0,0,0,0,0,0,0,0,0,0,0,0,0,0,0,0,0,0,0,0,0,0,0,0,0,0,0,0,0,0,0,0,0,0,0,0,0],[0,0,0,0,0,0,0,0,0,0,0,0,0,0,0,0,0,0,0,0,0,0,0,0,0,0,0,0,0,0,0,0,0,0,0,0,0,0,0,0,0,0,0,0,0,0,0,0,0,0,0,0]]},{"name":"MAIN_front_above","width":50,"height":10,"linkWithCollision":false,"visible":1,"tilesetName":"media/gfx/levels/grass.png","repeat":false,"preRender":true,"distance":"1","tilesize":32,"foreground":true,"data":[[0,0,0,0,0,0,0,0,0,0,0,0,0,0,0,0,0,0,0,0,0,0,0,0,0,0,0,0,0,0,0,0,0,0,0,0,0,0,0,0,0,0,0,0,0,0,0,0,0,0],[0,0,0,0,0,0,0,0,0,0,0,0,0,0,0,0,0,0,0,0,0,0,0,0,0,0,0,0,0,0,0,0,0,0,0,0,0,0,0,0,0,0,0,0,0,0,0,0,0,0],[0,0,0,0,0,0,0,0,0,0,0,0,0,0,0,0,0,0,0,0,0,0,0,0,0,0,0,0,0,0,0,0,0,0,0,0,0,0,0,0,0,0,0,0,0,0,0,0,0,0],[0,0,0,0,0,0,0,0,0,0,0,0,0,0,0,0,0,0,0,0,0,0,0,0,0,0,0,0,0,0,0,0,0,0,0,0,0,0,0,0,0,0,0,0,0,0,0,8,0,0],[0,0,0,0,0,0,0,0,0,0,0,0,0,0,0,0,0,0,0,5,6,7,3,0,1,8,0,4,0,0,0,0,0,0,0,0,0,0,0,0,0,0,0,0,0,0,0,0,0,0],[0,0,0,0,0,0,0,0,0,0,2,0,0,0,0,0,5,6,6,0,0,0,0,0,0,0,0,0,0,0,0,0,2,0,0,0,8,0,0,0,0,0,0,0,0,0,0,0,0,0],[8,0,0,0,0,5,6,6,7,0,0,0,0,1,0,0,0,0,0,0,0,0,0,0,0,0,0,0,0,0,0,0,0,0,0,0,0,0,0,0,0,0,0,0,0,0,0,0,0,0],[0,0,0,0,0,0,0,0,0,0,0,0,0,0,0,0,0,0,0,0,0,0,0,0,0,0,0,0,0,0,0,0,0,0,0,0,0,0,0,0,0,0,0,0,0,0,0,0,0,0],[0,0,0,0,0,0,0,0,0,0,0,0,0,0,0,0,0,0,0,0,0,0,0,0,0,0,0,0,0,0,0,0,0,0,0,0,0,0,0,0,0,0,0,0,0,0,0,0,0,0],[0,0,0,0,0,0,0,0,0,0,0,0,0,0,0,0,0,0,0,0,0,0,0,0,0,0,0,0,0,0,0,0,0,0,0,0,0,0,0,0,0,0,0,0,0,0,0,0,0,0]]},{"name":"forest_front","width":80,"height":10,"linkWithCollision":false,"visible":1,"tilesetName":"media/gfx/levels/forest.png","repeat":false,"preRender":true,"distance":"0.7","tilesize":32,"foreground":true,"data":[[0,0,0,0,0,0,0,0,0,0,0,0,0,0,0,0,0,0,0,0,0,0,0,0,0,0,0,0,0,0,0,0,0,0,0,0,0,0,0,0,0,0,0,0,0,0,0,0,0,0,0,0,0,0,0,0,0,0,0,0,0,0,0,0,0,0,0,0,0,0,0,0,0,0,0,0,0,0,0,0],[0,0,0,0,0,0,0,0,0,0,0,0,0,0,0,0,0,0,0,0,0,0,0,0,0,0,0,0,0,0,0,0,0,0,0,0,0,0,0,0,0,0,0,0,0,0,0,0,0,0,0,0,0,0,0,0,0,0,0,0,0,0,0,0,0,0,0,0,0,0,0,0,0,0,0,0,0,0,0,0],[0,0,0,0,0,0,0,0,0,0,0,0,0,0,0,0,0,0,10,0,0,0,0,0,0,0,0,0,0,0,0,11,0,0,0,0,0,0,0,0,0,0,0,0,0,0,0,0,0,0,0,0,0,0,0,0,0,0,0,0,0,0,0,0,0,5,0,0,0,0,11,0,0,0,0,2,0,0,0,0],[0,0,0,0,0,0,0,0,0,0,0,0,0,0,0,0,0,5,9,0,0,0,0,0,0,0,0,0,0,0,0,13,0,0,0,0,0,0,0,0,0,0,0,0,0,0,0,0,0,0,0,0,0,0,0,0,0,0,0,0,0,0,0,0,0,9,0,0,0,0,9,0,0,4,0,6,0,0,0,0],[3,0,0,0,0,10,0,0,0,5,0,0,0,0,0,0,0,13,13,0,0,0,0,0,11,0,0,0,0,0,0,13,0,0,0,0,0,0,0,0,0,0,0,0,0,11,0,0,0,3,0,0,0,0,0,0,0,0,10,0,0,0,0,0,0,13,10,0,0,0,15,0,0,8,1,6,0,0,0,0],[7,0,4,0,0,14,0,0,0,9,0,0,0,0,0,0,0,13,9,0,0,10,0,0,15,0,2,0,0,0,0,13,0,0,0,0,0,0,0,0,0,0,0,0,0,14,0,4,0,7,3,0,0,0,0,0,0,0,14,11,0,0,0,0,0,14,14,0,0,0,14,0,0,8,8,6,0,0,0,0],[7,0,8,0,0,15,0,0,0,14,0,0,0,0,0,0,0,14,15,0,0,13,0,0,9,0,6,0,0,0,0,9,0,0,0,0,0,0,0,0,0,0,0,0,0,13,0,8,0,7,7,0,0,0,0,0,0,0,15,9,0,0,0,0,0,15,15,0,0,0,13,0,0,8,8,6,0,0,0,0],[7,0,8,0,0,9,0,0,0,13,0,0,0,0,0,0,0,16,16,0,0,13,0,0,14,0,6,0,0,0,0,14,0,0,0,0,0,0,0,0,0,0,0,0,0,9,0,8,0,7,7,0,0,0,0,0,0,0,13,15,0,0,0,0,0,16,13,0,0,0,16,0,0,8,8,6,0,0,0,0],[7,0,8,0,0,13,0,0,0,15,0,0,0,0,0,0,0,16,16,0,0,15,0,0,16,0,6,0,0,0,0,16,0,0,0,0,0,0,0,0,0,0,0,0,0,16,0,8,0,7,7,0,0,0,0,0,0,0,16,14,0,0,0,0,0,16,15,0,0,0,16,0,0,8,8,6,0,0,0,0],[7,0,8,0,0,16,0,0,0,9,0,0,0,0,0,0,0,16,16,0,0,16,0,0,16,0,6,0,0,0,0,16,0,0,0,0,0,0,0,0,0,0,0,0,0,16,0,8,0,7,7,0,0,0,0,0,0,0,16,9,0,0,0,0,0,16,16,0,0,0,16,0,0,8,8,6,0,0,0,0]]},{"name":"collision","width":105,"height":16,"linkWithCollision":false,"visible":0,"tilesetName":"","repeat":false,"preRender":false,"distance":1,"tilesize":16,"foreground":true,"data":[[0,0,0,0,0,0,0,0,0,0,0,0,0,0,0,0,0,0,0,0,0,0,0,0,0,0,0,0,0,0,0,0,0,0,0,0,0,0,0,0,0,0,0,0,0,0,0,0,0,0,0,0,0,0,0,0,0,0,0,0,0,0,0,0,0,0,0,0,0,0,0,0,0,0,0,0,0,0,0,0,0,0,0,0,0,0,0,0,0,0,0,0,0,0,0,0,0,0,0,0,0,0,0,0,0],[0,0,0,0,0,0,0,0,0,0,0,0,0,0,0,0,0,0,0,0,0,0,0,0,0,0,0,0,0,0,0,0,0,0,0,0,0,0,0,0,0,0,0,0,0,0,0,0,0,0,0,0,0,0,0,0,0,0,0,0,0,0,0,0,0,0,0,0,0,0,0,0,0,0,0,0,0,0,0,0,0,0,0,0,0,0,0,0,0,0,0,0,0,0,0,0,0,0,0,0,0,0,0,0,0],[0,0,0,0,0,0,0,0,0,0,0,0,0,0,0,0,0,0,0,0,0,0,0,0,0,0,0,0,0,0,0,0,0,0,0,0,0,0,0,0,0,0,0,0,0,0,0,0,0,0,0,0,0,0,0,0,0,0,0,0,0,0,0,0,0,0,0,0,0,0,0,0,0,0,0,0,0,0,0,0,0,0,0,0,0,0,0,0,0,0,0,0,0,0,0,0,0,0,0,0,0,0,0,0,0],[0,0,0,0,0,0,0,0,0,0,0,0,0,0,0,0,0,0,0,0,0,0,0,0,0,0,0,0,0,0,0,0,0,0,0,0,0,0,0,0,0,0,0,0,0,0,0,0,0,0,0,0,0,0,0,0,0,0,0,0,0,0,0,0,0,0,0,0,0,0,0,0,0,0,0,0,0,0,0,0,0,0,0,0,0,0,0,0,0,0,0,0,0,0,0,0,0,0,0,0,0,0,0,0,0],[0,0,0,0,0,0,0,0,0,0,0,0,0,0,0,0,0,0,0,0,0,0,0,0,0,0,0,0,0,0,0,0,0,0,0,0,0,0,0,0,0,0,0,0,0,0,0,0,0,0,0,0,0,0,0,0,0,0,0,0,0,0,0,0,0,0,0,0,0,0,0,0,0,0,0,0,0,0,0,0,0,0,0,0,0,0,0,0,0,0,0,0,0,0,0,0,0,0,0,0,0,0,0,0,0],[0,0,0,0,0,0,0,0,0,0,0,0,0,0,0,0,0,0,0,0,0,0,0,0,0,0,0,0,0,0,0,0,0,0,0,0,0,0,0,0,0,0,0,0,0,0,0,0,0,0,0,0,0,0,0,0,0,0,0,0,0,0,0,0,0,0,0,0,0,0,0,0,0,0,0,0,0,0,0,0,0,0,0,0,0,0,0,0,0,0,0,0,0,0,0,0,0,0,0,0,0,0,0,0,0],[0,0,0,0,0,0,0,0,0,0,0,0,0,0,0,0,0,0,0,0,0,0,0,0,0,0,0,0,0,0,0,0,0,0,0,0,0,0,0,0,0,0,0,0,0,0,0,0,0,0,0,0,0,0,0,0,0,0,0,0,0,0,0,0,0,0,0,0,0,0,0,0,0,0,0,0,0,0,0,0,0,0,0,0,0,0,0,0,0,0,0,0,0,0,0,0,0,0,0,0,0,0,0,0,0],[0,0,0,0,0,0,0,0,0,0,0,0,0,0,0,0,0,0,0,0,0,0,0,0,0,0,0,0,0,0,0,0,0,0,0,0,0,0,0,0,0,0,0,0,0,0,0,0,0,0,0,0,0,0,0,0,0,0,0,0,0,0,0,0,0,0,0,0,0,0,0,0,0,0,0,0,0,0,0,0,0,0,0,0,0,0,0,0,0,0,0,0,0,0,1,1,1,1,1,1,1,1,1,0,0],[0,0,0,0,0,0,0,0,0,0,0,0,0,0,0,0,0,0,0,0,0,0,0,0,0,0,0,0,0,0,0,0,0,0,0,0,0,0,0,0,0,0,0,0,0,0,0,0,0,0,0,0,0,0,0,0,0,0,0,0,0,0,0,0,0,0,0,0,0,0,0,0,0,0,0,0,0,0,0,0,0,0,0,0,0,0,0,0,0,0,0,0,0,0,1,0,0,0,0,1,0,0,0,0,0],[0,0,0,0,0,0,0,0,0,0,0,0,0,0,0,0,0,0,0,0,0,0,0,0,0,0,0,0,0,0,0,0,0,0,0,0,0,0,1,1,1,1,1,1,1,1,1,1,1,1,1,1,1,1,1,1,1,1,0,0,0,0,0,0,0,0,0,0,0,0,0,0,0,0,0,0,0,0,0,0,0,0,0,0,0,0,0,0,0,0,0,0,1,1,1,0,0,0,0,1,0,0,0,0,0],[0,0,0,0,0,0,0,0,0,0,0,0,0,0,0,0,0,0,0,0,0,0,0,0,0,0,0,0,0,0,0,0,0,0,0,0,0,0,1,0,0,0,0,0,0,0,0,0,0,0,0,0,0,0,0,0,0,1,0,0,0,0,0,0,0,0,0,0,0,0,0,0,0,0,0,0,0,0,0,0,0,0,0,0,0,0,0,0,0,0,0,0,1,0,0,0,0,0,0,1,0,0,0,0,0],[0,0,0,0,0,0,0,0,0,0,0,0,0,0,0,0,0,0,1,1,1,1,0,0,0,0,0,0,0,0,1,1,1,1,1,1,1,1,1,0,0,0,0,0,0,0,0,0,0,0,0,0,0,0,0,0,0,1,0,0,0,0,1,1,1,1,1,1,1,1,1,1,1,1,1,1,1,1,1,1,1,1,1,1,1,1,1,1,1,1,1,1,1,0,0,0,0,0,0,1,0,0,0,0,0],[0,0,0,0,0,0,0,0,0,0,0,0,0,0,0,0,0,0,1,1,1,1,0,0,0,0,0,0,0,0,1,0,0,0,0,0,0,0,0,0,0,0,0,0,0,0,0,0,0,0,0,0,0,0,0,0,0,1,0,0,0,0,1,0,0,0,0,0,0,0,0,0,0,1,0,0,0,0,0,0,0,0,0,0,0,0,0,0,1,0,0,0,0,0,0,0,0,0,0,1,0,0,0,0,0],[1,1,1,1,1,1,1,1,1,1,1,1,1,1,1,1,1,1,1,0,0,1,1,1,0,0,1,1,1,1,1,0,0,0,0,0,0,0,0,0,0,0,0,0,0,0,0,0,0,0,0,0,0,0,0,0,0,1,0,0,0,0,1,0,0,0,0,0,0,0,0,0,0,1,0,0,0,0,0,0,0,0,0,0,0,0,0,0,1,0,0,0,0,0,0,0,0,0,0,1,0,0,0,0,0],[1,0,0,0,0,0,0,0,0,0,0,0,0,0,0,0,0,0,0,0,0,0,0,1,0,0,1,0,0,0,0,0,0,0,0,0,0,0,0,0,0,0,0,0,0,0,0,0,0,0,0,0,0,0,0,0,0,1,0,0,0,0,1,0,0,0,0,0,0,0,0,0,0,1,0,0,0,0,0,0,0,0,0,0,0,0,0,0,1,0,0,0,0,0,0,0,0,0,0,1,0,0,0,0,0],[1,0,0,0,0,0,0,0,0,0,0,0,0,0,0,0,0,0,0,0,0,0,0,1,0,0,1,0,0,0,0,0,0,0,0,0,0,0,0,0,0,0,0,0,0,0,0,0,0,0,0,0,0,0,0,0,0,1,0,0,0,0,1,0,0,0,0,0,0,0,0,0,0,1,0,0,0,0,0,0,0,0,0,0,0,0,0,0,1,0,0,0,0,0,0,0,0,0,0,1,0,0,0,0,0]]}]}/*]JSON*/;
 LevelE1m1Resources=[new ig.Image('media/gfx/levels/sky.png'), new ig.Image('media/gfx/levels/sky.png'), new ig.Image('media/gfx/levels/forest.png'), new ig.Image('media/gfx/levels/forest.png'), new ig.Image('media/gfx/levels/forest.png'), new ig.Image('media/gfx/levels/ground.png'), new ig.Image('media/gfx/levels/grass.png'), new ig.Image('media/gfx/levels/grass.png'), new ig.Image('media/gfx/levels/forest.png')];
 });
